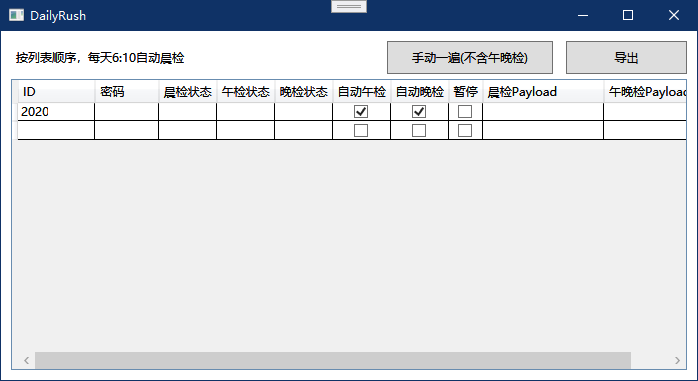
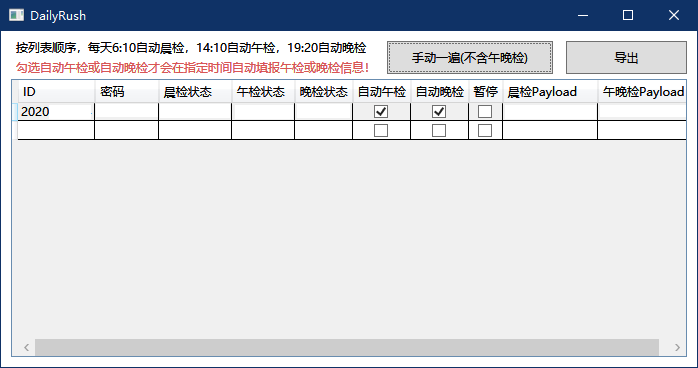
modify view and add thanks

diff --git a/README.md b/README.md
@@ -2,10 +2,6 @@
 
 > 北京邮电大学疫情防控通自动填报工具，包含晨检（每日填报）、午晚检
 
-## 我想说的
-
-我是20级新生，目前尚未入学只需要每日填报，尚不明确午晚检的具体时间段和规则，所以程序还只是在测试阶段。如果有已在校并且了解午晚检政策、规则的同学想帮助我改进程序，欢迎邮件告诉我哦，真的非常感谢！
-
 ## 界面示意
 
 ![View](./view.png)
@@ -70,6 +66,10 @@
 4. 点击提交信息，查看网络选项卡(Network)中URL为：```https://app.bupt.edu.cn/xisuncov/wap/open-report/save```的POST请求内容，这个字符串就是午晚检Payload
 
    ![Firefox示例](./sample_Payload2_Firefox.png)
+
+## 致谢
+
+非常感谢[**Dong-Guan-Saohuang-Dadui**](https://github.com/Dong-Guan-Saohuang-Dadui)提供晨午晚检政策！
 
 ## 敬告
 
